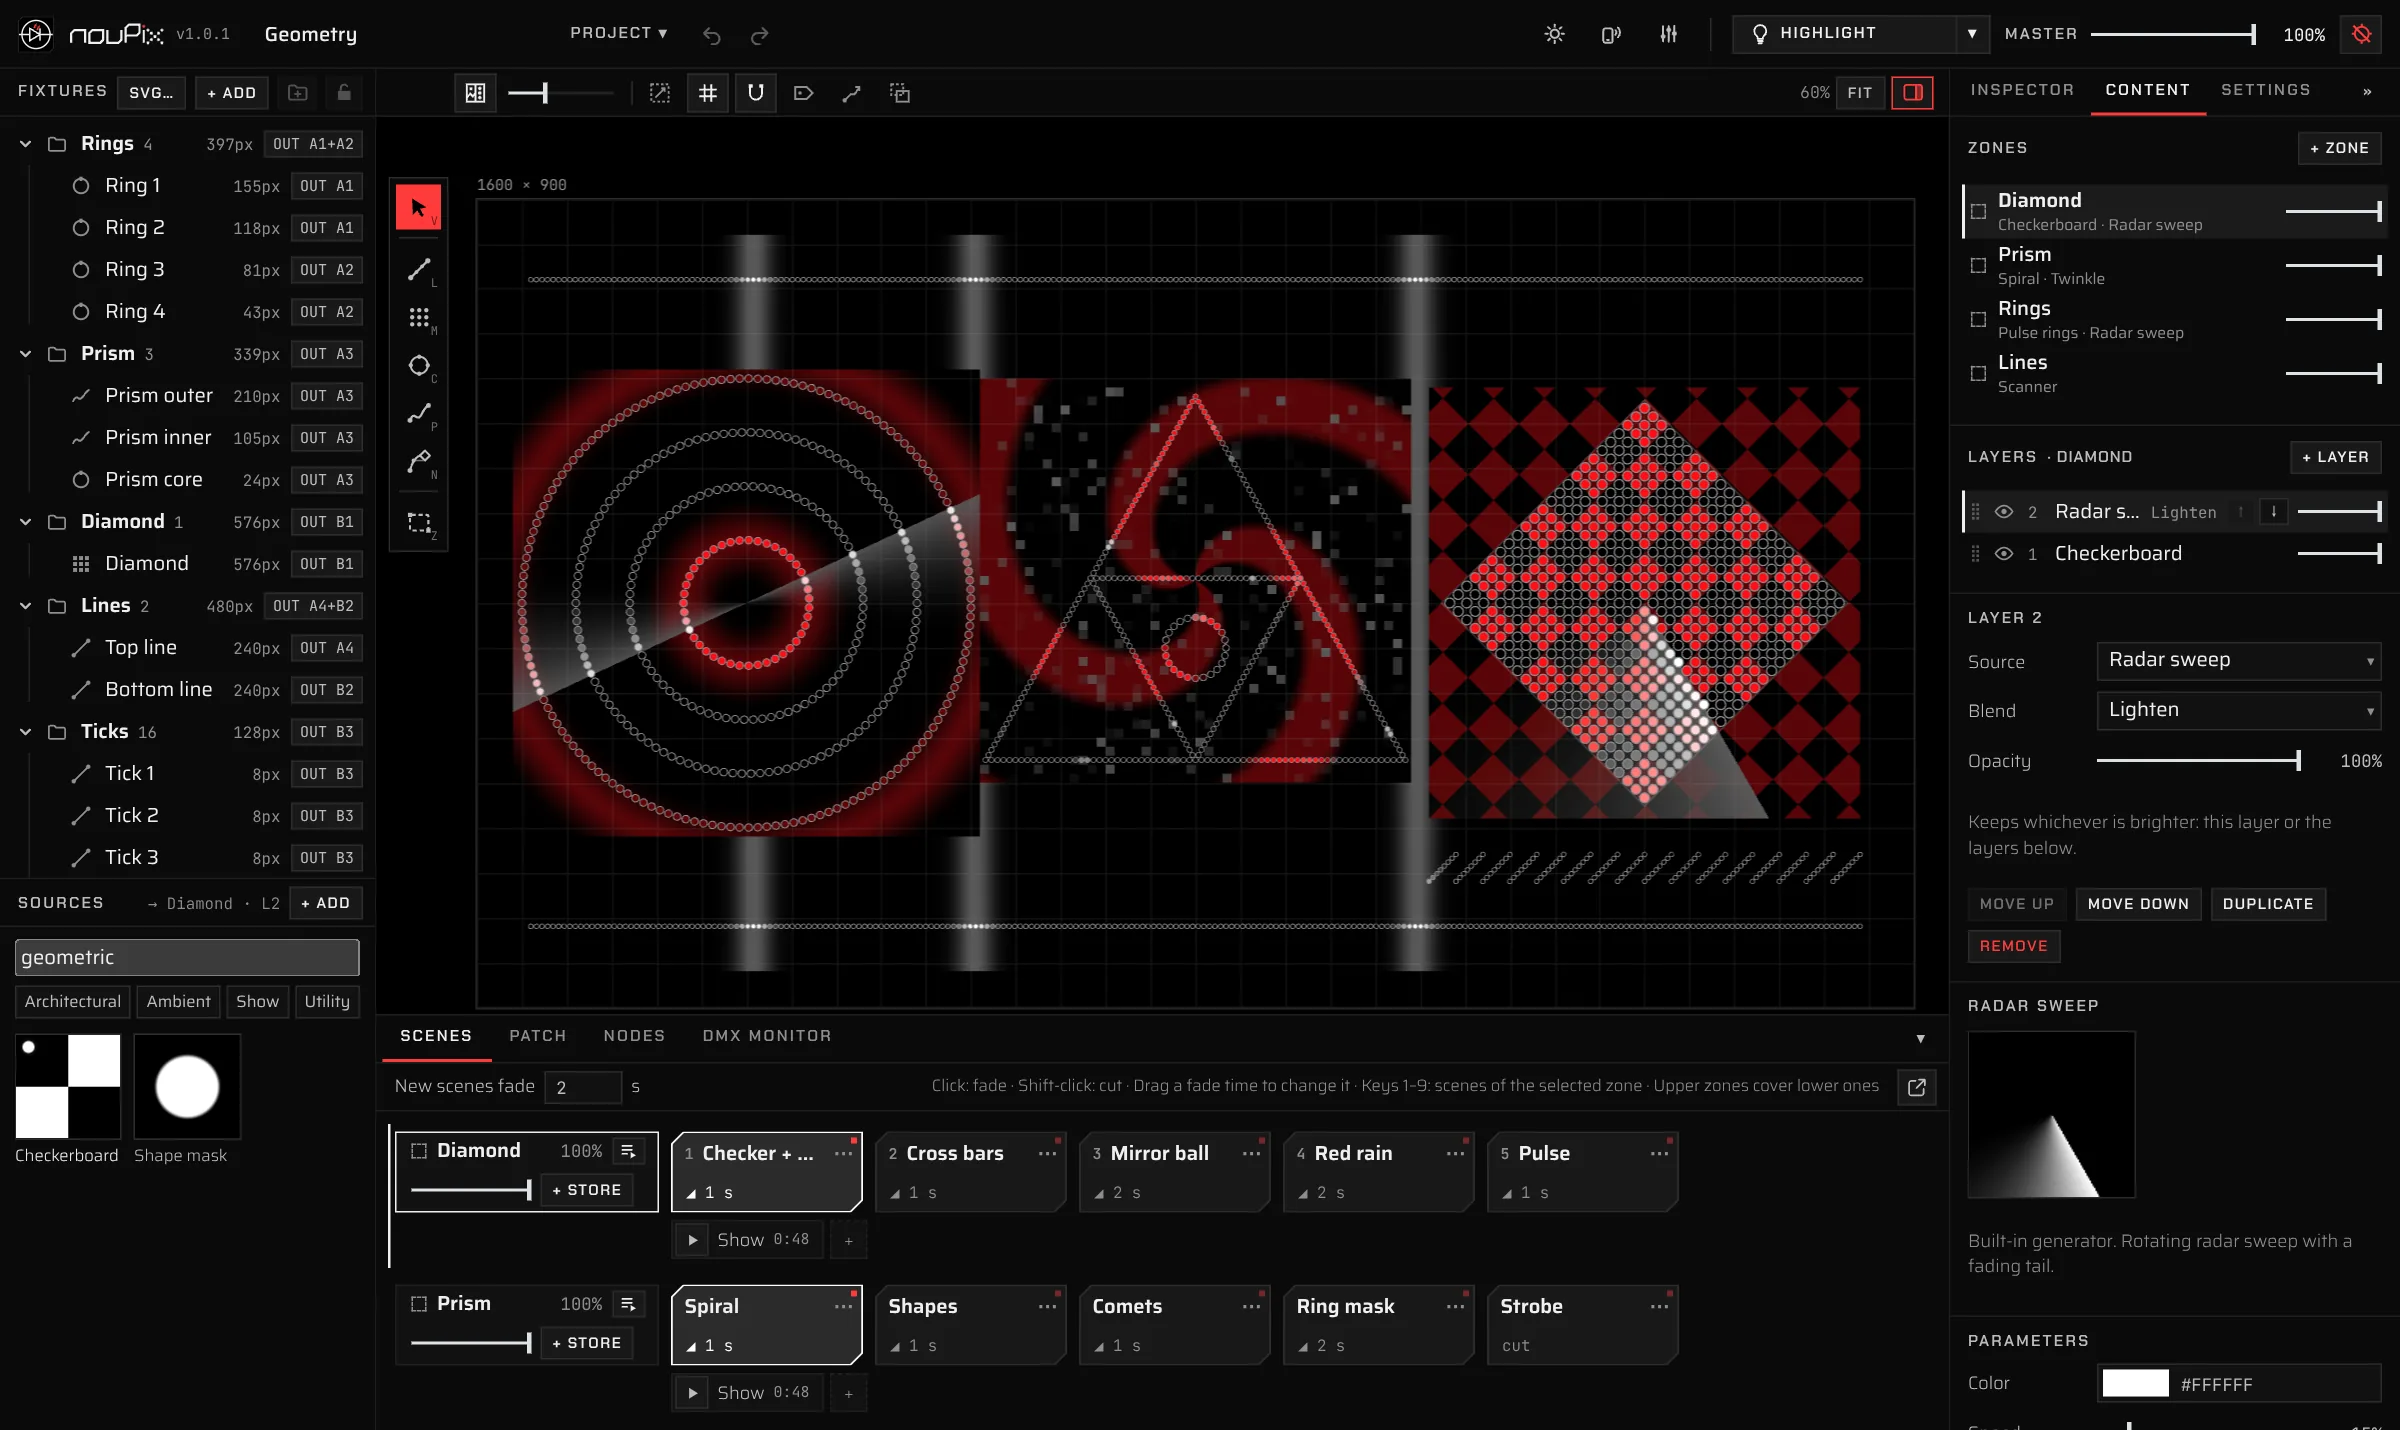
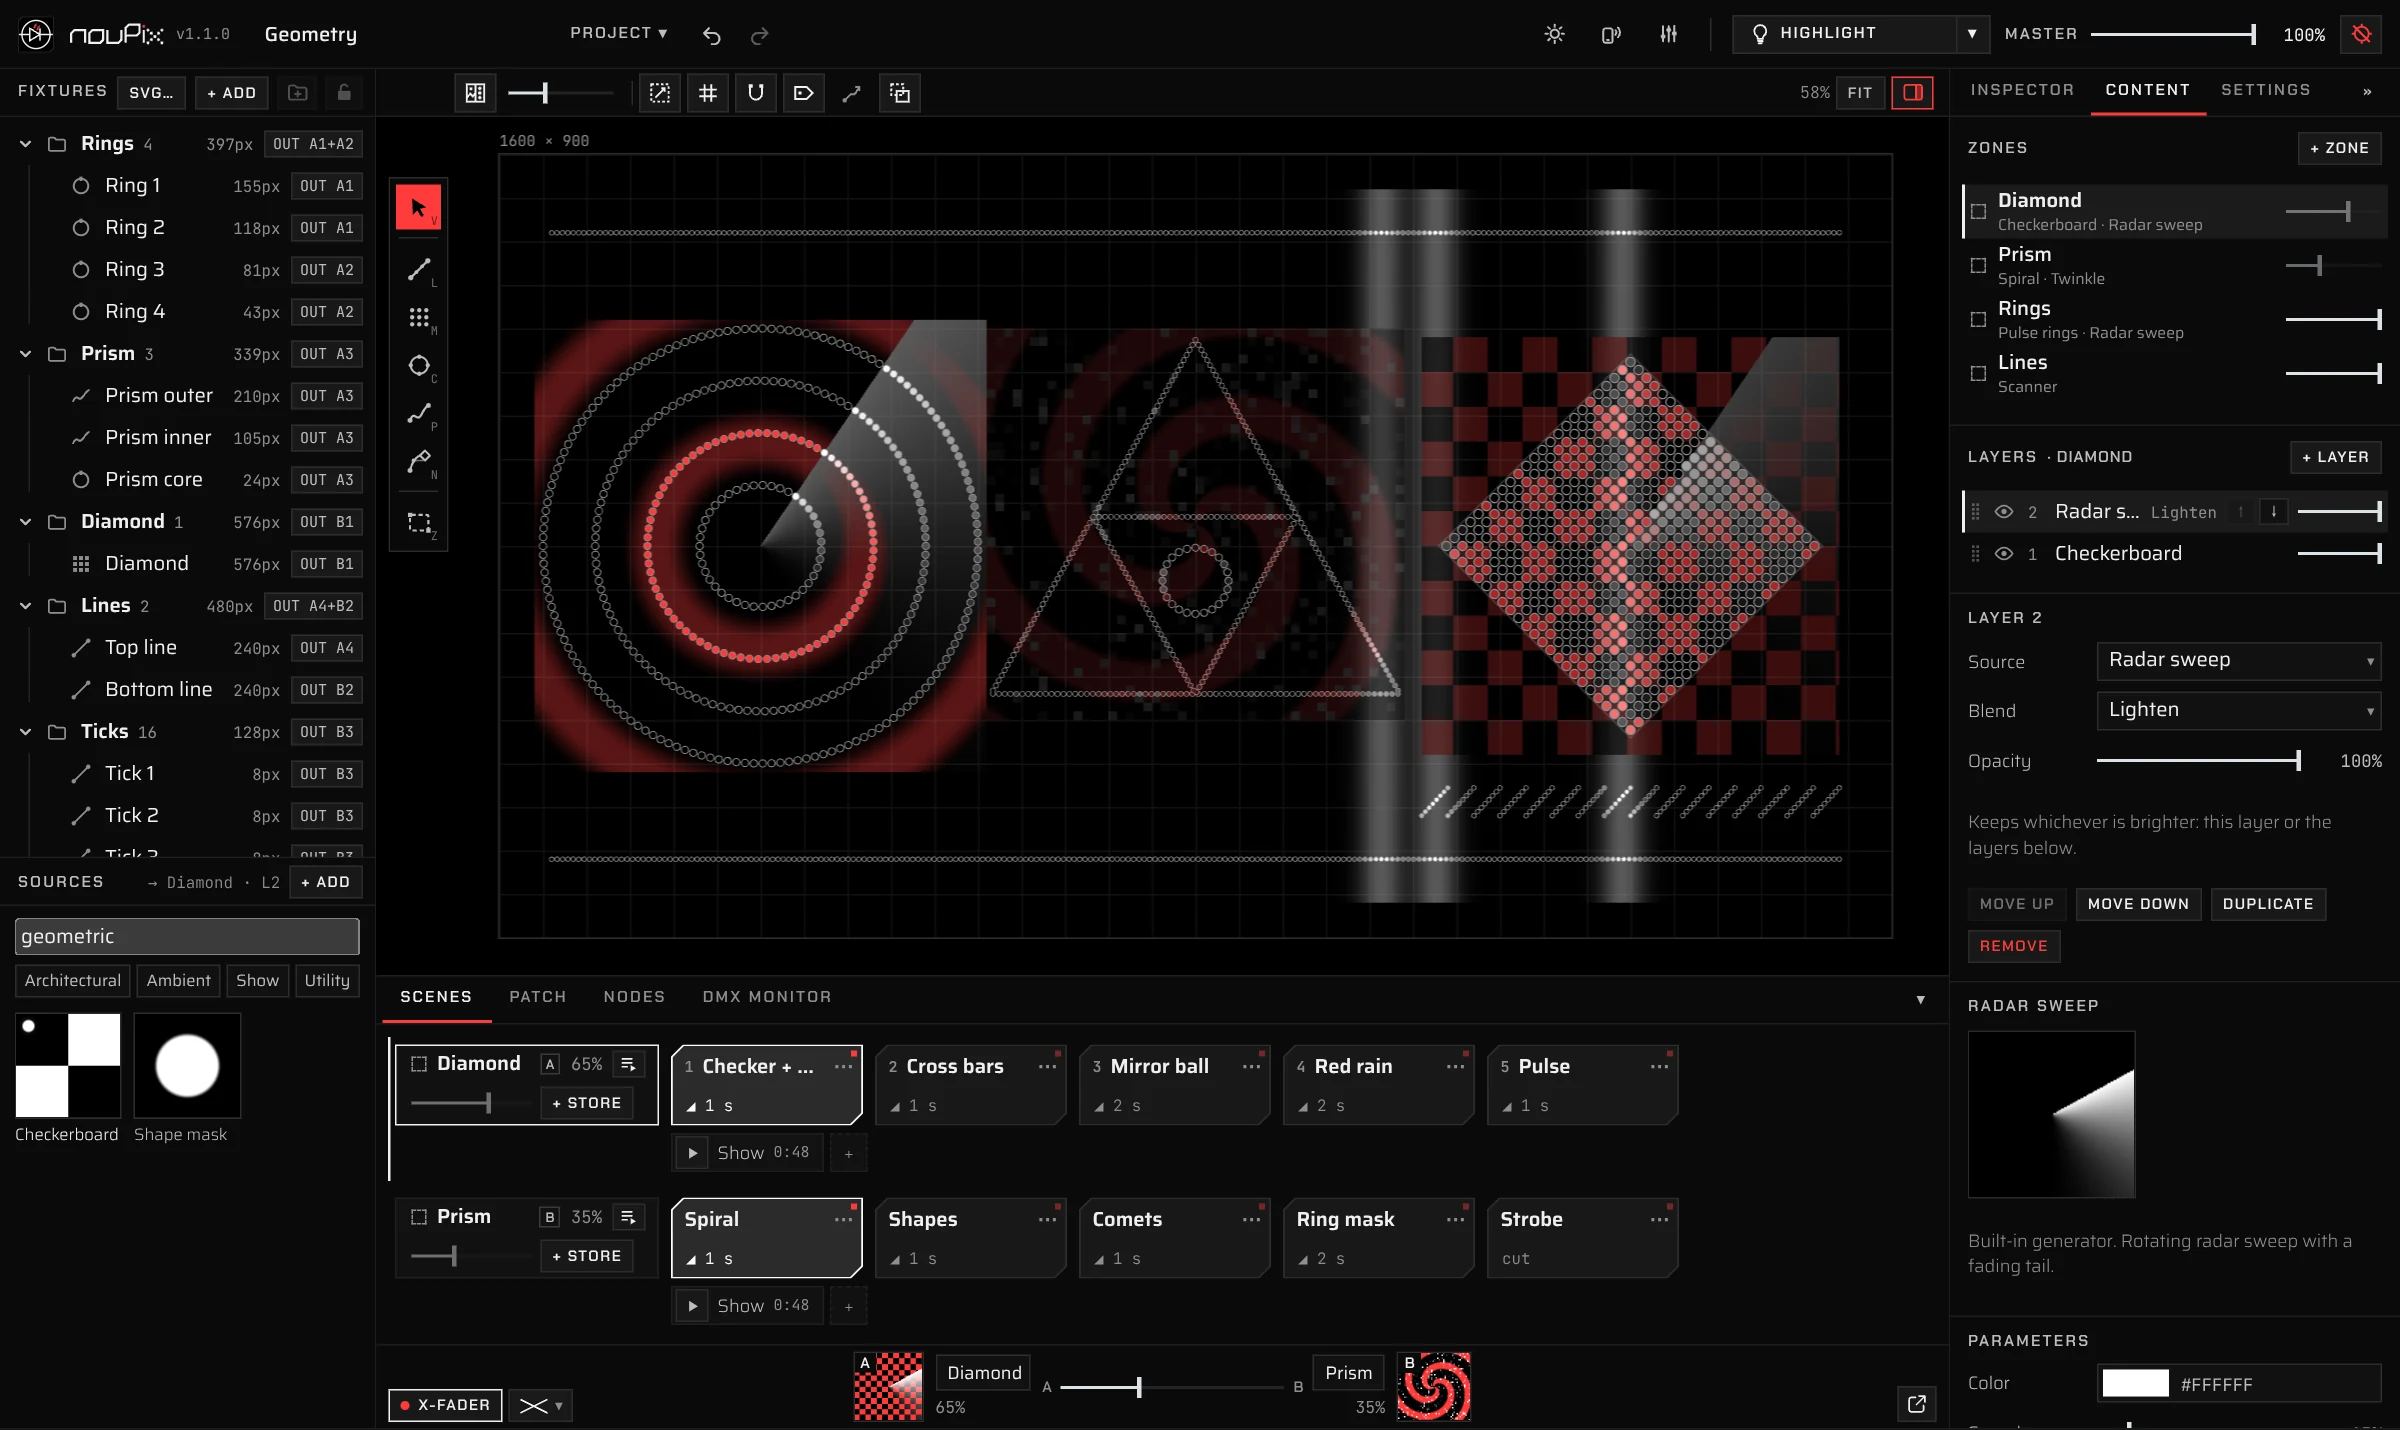
Site: hero screenshot with the X-Fader on (Diamond A, Prism B)
Claude-Session: https://claude.ai/code/session_01TnTf954bCnfcgD4L8cjhPo

diff --git a/docs/index.html b/docs/index.html
@@ -323,7 +323,7 @@
         <span class="np-ztag"><b>Stage</b> Geometry · 4 zones <i>●</i></span>
         <figure class="np-shot">
           <span class="np-tick" aria-hidden="true"></span>
-          <picture><source media="(max-width:700px)" srcset="img/app-hero-m.webp" width="1572" height="892"><img src="img/app-hero.webp" width="2400" height="1430" alt="nouPix playing a geometric show: concentric rings, nested triangles and a diamond matrix in four zones, red and white; fixture list, stage, scenes with playlists and the Content panel with the layers of the Diamond zone"></picture>
+          <picture><source media="(max-width:700px)" srcset="img/app-hero-m.webp" width="1572" height="892"><img src="img/app-hero.webp" width="2400" height="1430" alt="nouPix playing a geometric show: concentric rings, nested triangles and a diamond matrix in four zones, red and white; fixture list, stage, scenes with playlists and the Content panel with the layers of the Diamond zone; the X-Fader at the bottom mixes Diamond (A) and Prism (B)"></picture>
         </figure>
         <div class="np-shotbar"><span><b>geometry.noupix</b> · 26 fixtures · 1,920 pixels · 14 universes</span><span>4 zones · 7 layers · 20 scenes · 4 playlists</span></div>
       </div>
